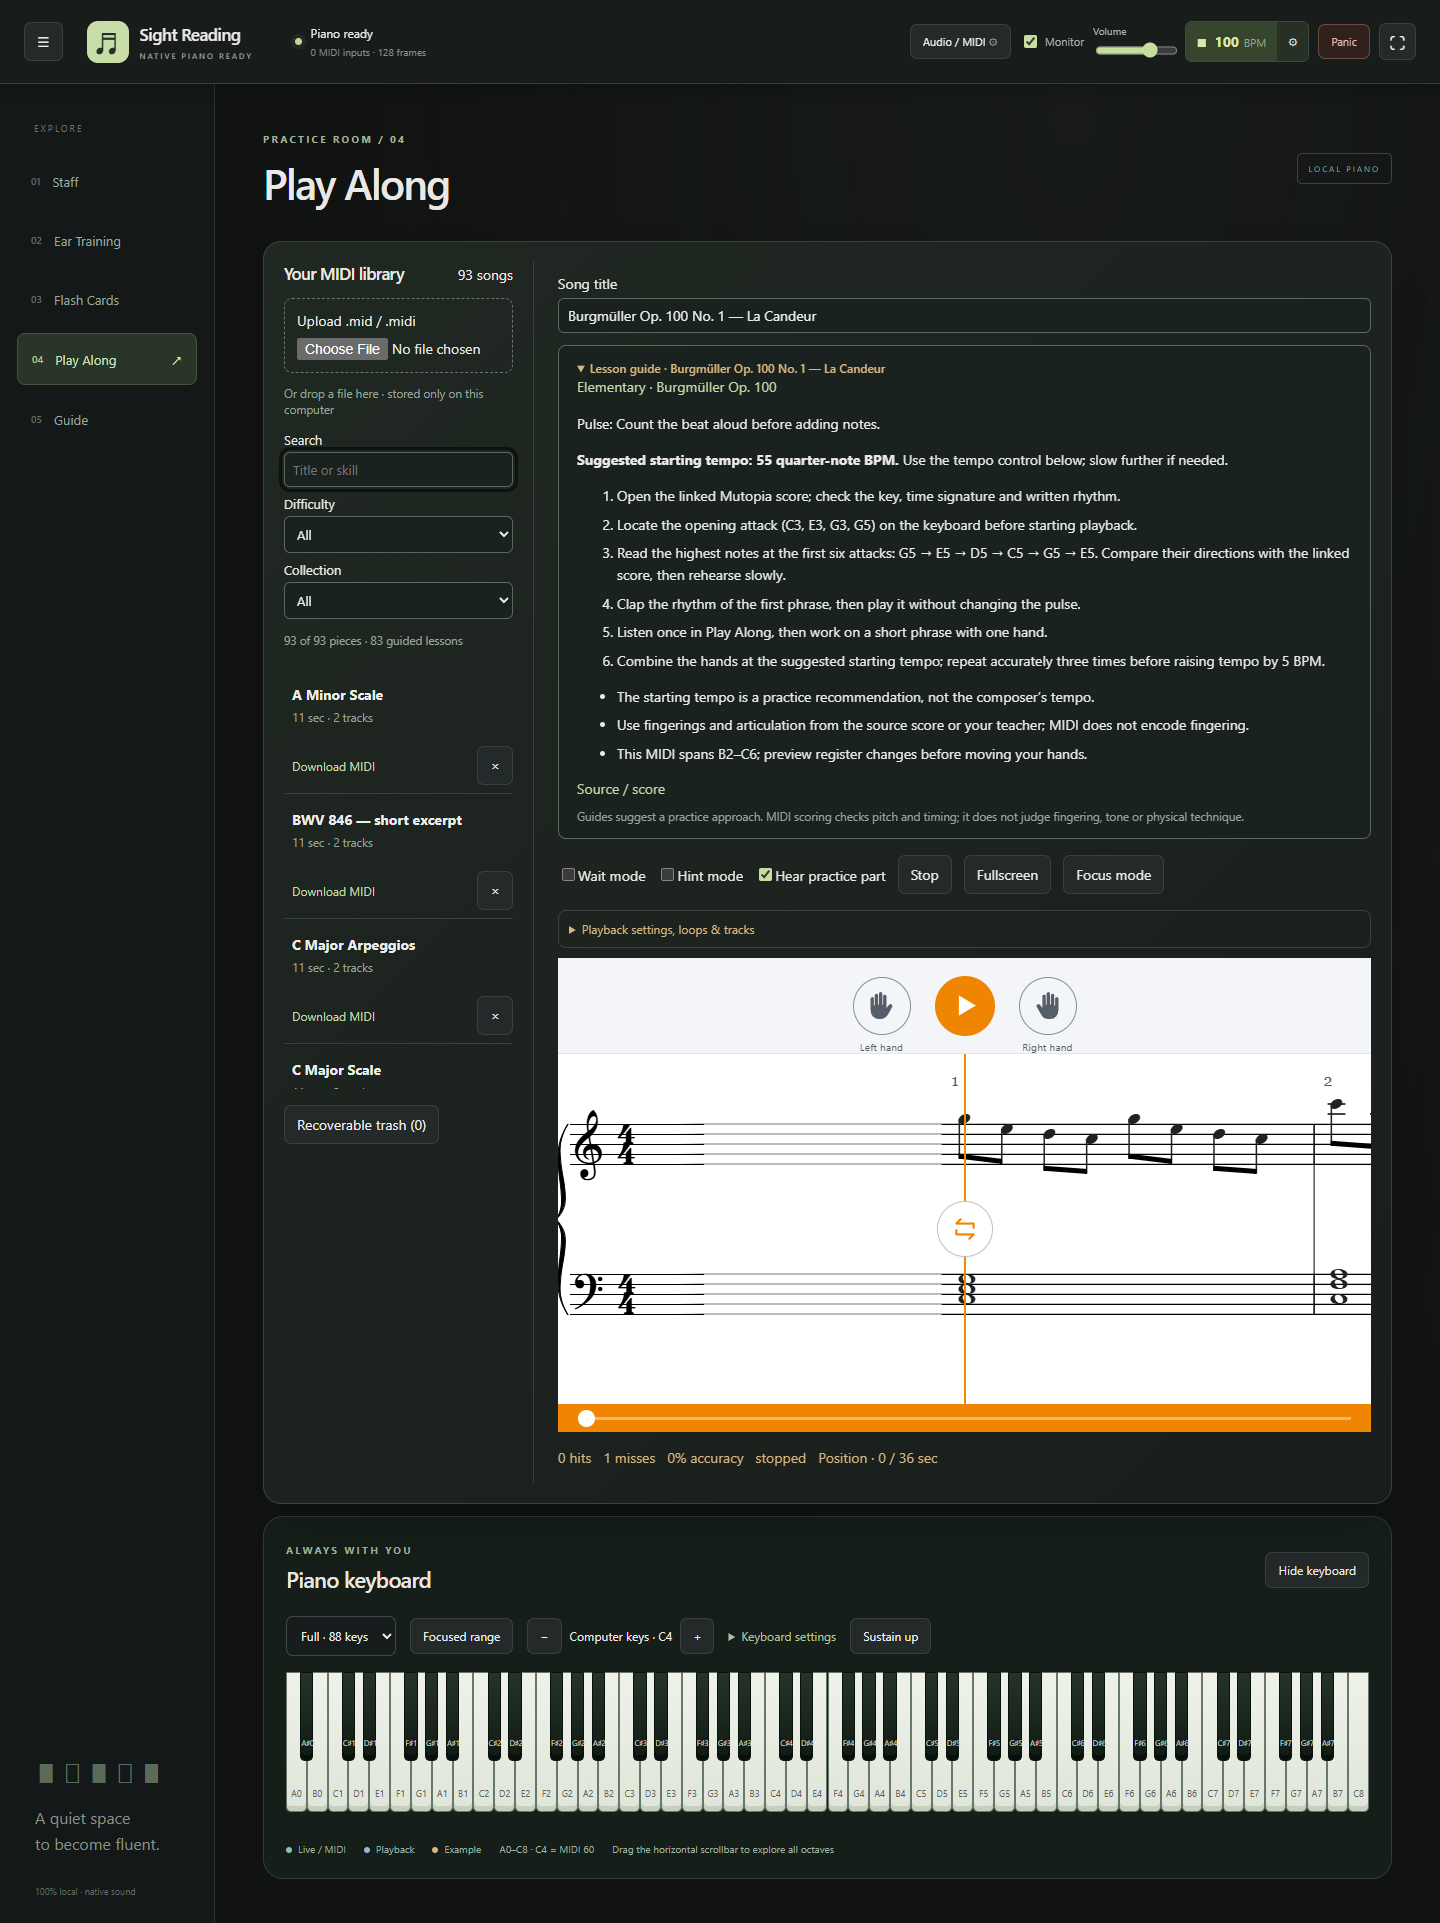
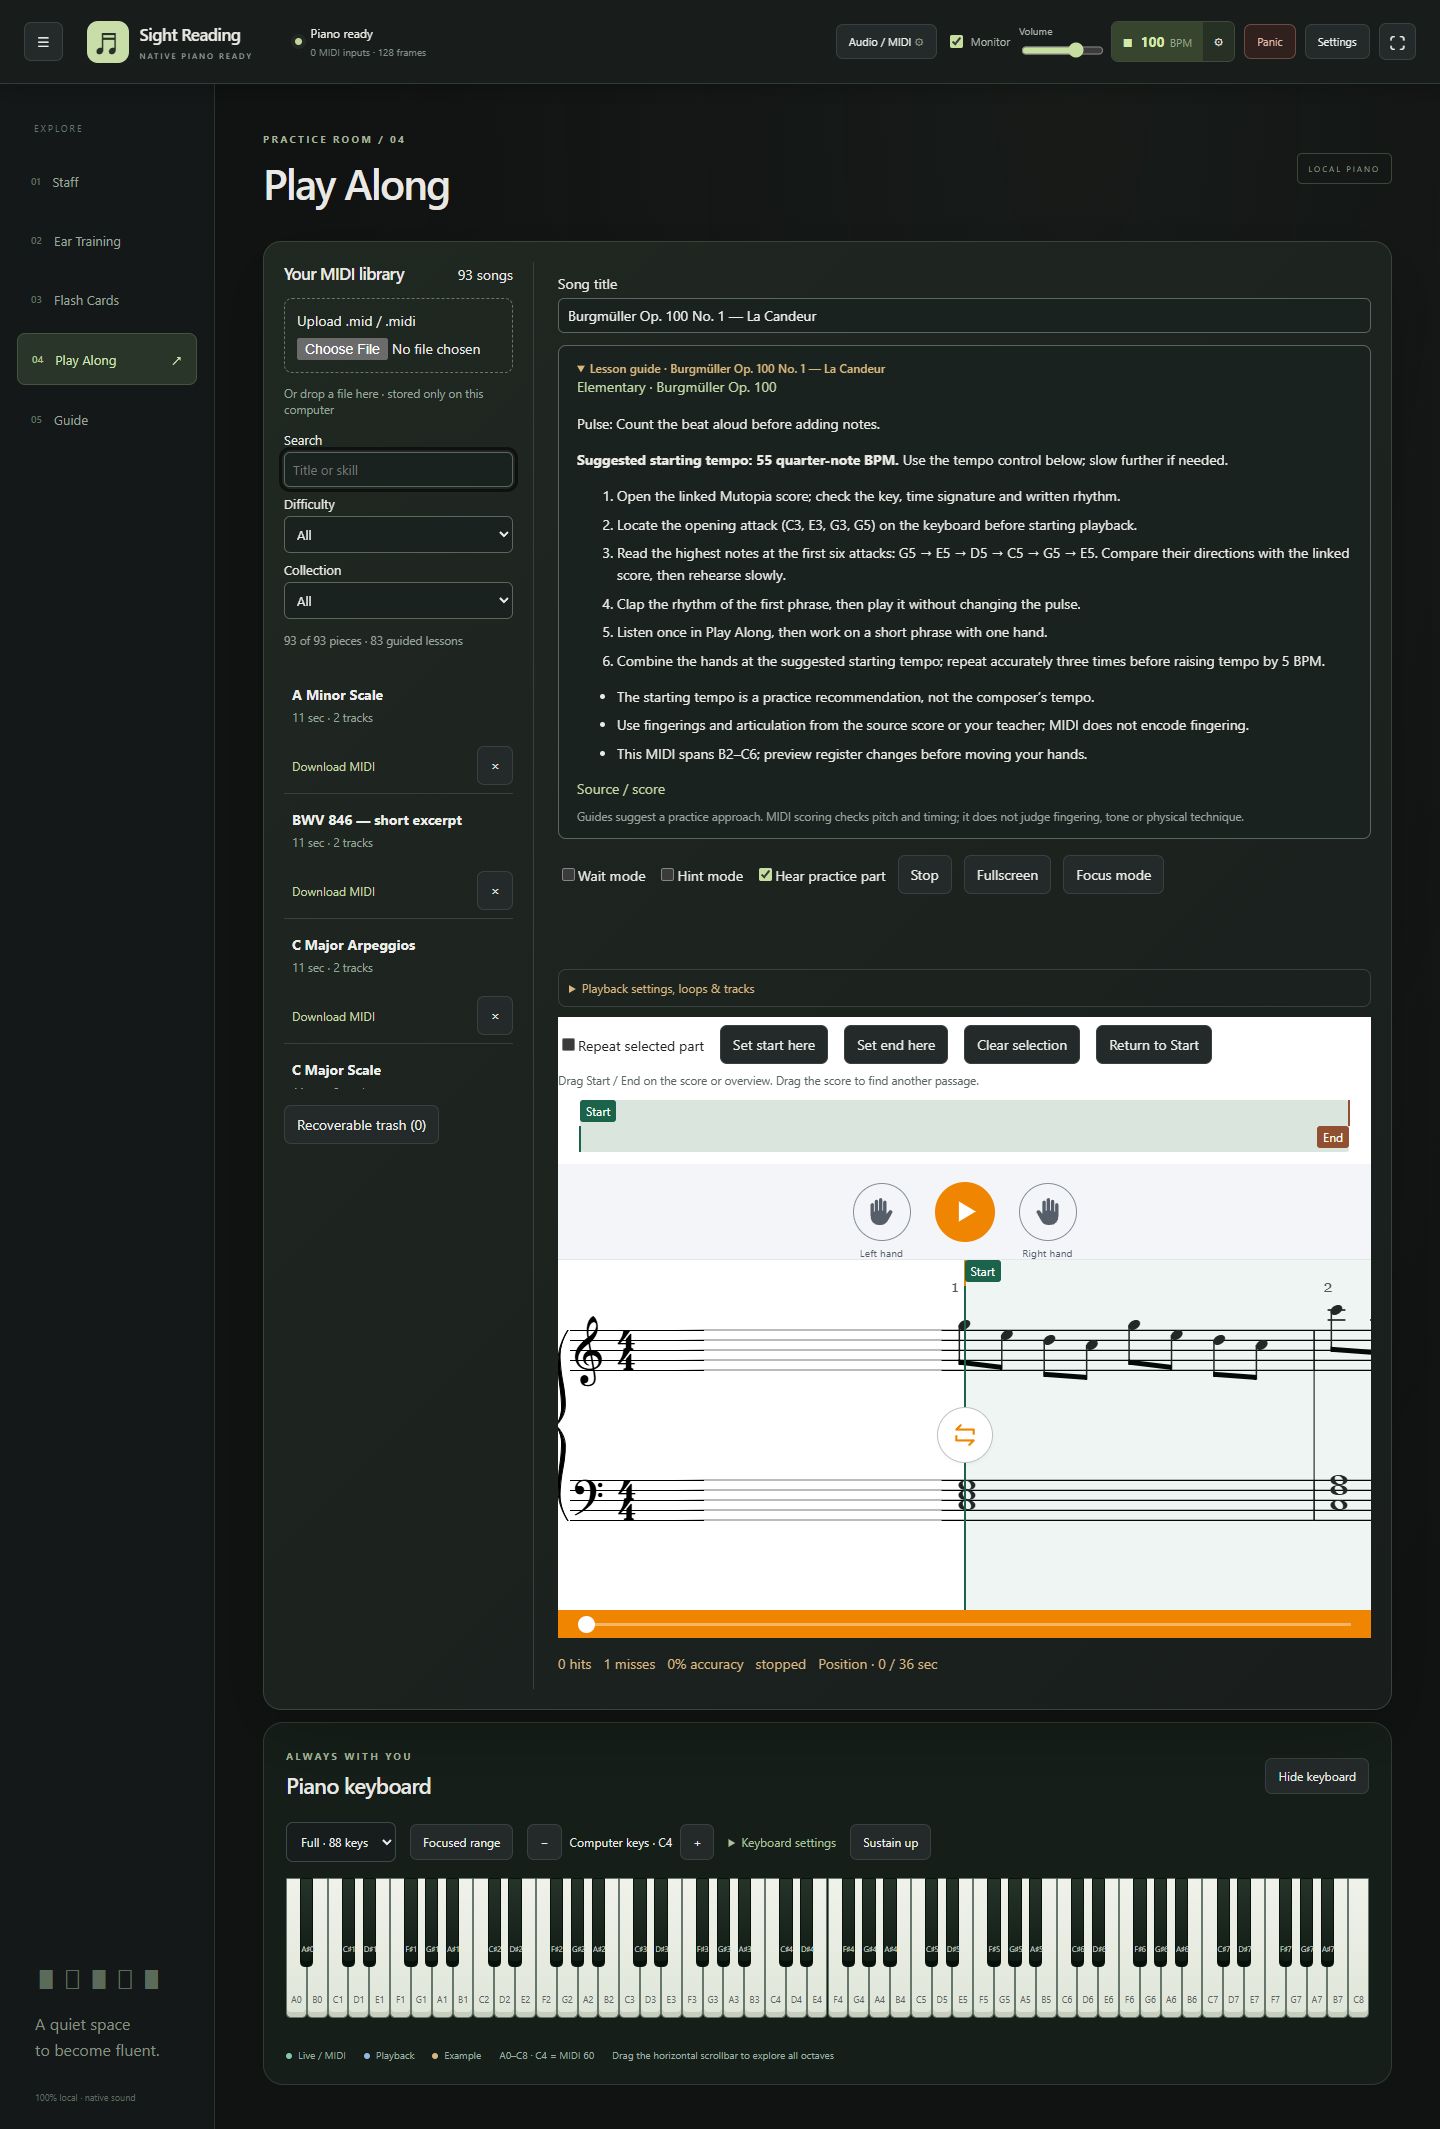
Add toggle to hide passage controls and disable repeat
Hide the passage panel, overview, A/B settings and score overlays together. Disable native repeating before hiding, retain boundaries, and leave repeat off when controls return. Include updated verification notes and screenshots.

diff --git a/web/src/PlayAlong.tsx b/web/src/PlayAlong.tsx
@@ -15,6 +15,8 @@ export function PlayAlong({ onFocus }: { onFocus: () => void }) {
   const dragPause = useRef<Promise<void>>(Promise.resolve());
   const [seekPreview, setSeekPreview] = useState<number | null>(null);
   const overview = useRef<HTMLDivElement>(null);
+  const [hidePassage, setHidePassage] = useState(false);
+  const [hidingPassage, setHidingPassage] = useState(false);
   useEffect(() => {
     if (seekPreview !== null && p && Math.abs(p.songSeconds - seekPreview) < .001)
       setSeekPreview(null);
@@ -74,6 +76,16 @@ export function PlayAlong({ onFocus }: { onFocus: () => void }) {
   }, [song?.id, bucket, p?.revision]);
   const config = (edit: Partial<TransportConfig>) =>
     void run("transport.configure", edit);
+  const togglePassage = async (hide: boolean) => {
+    if (!hide) { setHidePassage(false); return; }
+    setHidingPassage(true);
+    setError("");
+    try {
+      await native.command("transport.configure", { loop: false });
+      setHidePassage(true);
+    } catch (e) { setError((e as Error).message); }
+    finally { setHidingPassage(false); }
+  };
   const patch = async (edit: Record<string, unknown>) => {
     if (!song) return;
     try {
@@ -257,7 +269,7 @@ export function PlayAlong({ onFocus }: { onFocus: () => void }) {
                   />
                 </label>
               </div>
-              <div className="song-options">
+              {!hidePassage && <div className="song-options">
                 <label>
                   <input
                     type="checkbox"
@@ -294,7 +306,7 @@ export function PlayAlong({ onFocus }: { onFocus: () => void }) {
                 <button onClick={() => config({ b: Math.floor(p.songTick) })}>
                   Set B here
                 </button>
-              </div>
+              </div>}
               <div className="song-options">
                 <label>
                   Auto accompaniment
@@ -380,6 +392,13 @@ export function PlayAlong({ onFocus }: { onFocus: () => void }) {
               </div>
             </details>
             <div className="practice-player song-player">
+              <div className="selection-visibility">
+                <label><input type="checkbox" aria-label="Hide passage controls"
+                  checked={hidePassage} disabled={hidingPassage}
+                  onChange={e => void togglePassage(e.target.checked)} />
+                  Hide passage controls</label>
+              </div>
+              {!hidePassage && <>
               <div className="selection-controls">
                 <label><input type="checkbox" aria-label="Repeat selected part"
                   checked={p.config.loop} onChange={e => config({ loop: e.target.checked })} />
@@ -398,6 +417,7 @@ export function PlayAlong({ onFocus }: { onFocus: () => void }) {
                     return (x - box.left) / box.width * song.durationTicks;
                   }} />
               </div>
+              </>}
               <PlayerControls
                 hand={p.config.hand ?? "both"}
                 onHand={(hand) => config({ hand })}
@@ -415,7 +435,7 @@ export function PlayAlong({ onFocus }: { onFocus: () => void }) {
                 <EngravedScore
                   key={song.id}
                   song={song}
-                  selection={selection}
+                  selection={hidePassage ? undefined : selection}
                   fromTick={scoreWindow.from}
                   toTick={scoreWindow.to}
                   notes={displayedNotes}

diff --git a/web/src/playAlong.css b/web/src/playAlong.css
@@ -7,6 +7,7 @@
   gap: 24px;
 }
 .selection-controls { display: flex; flex-wrap: wrap; gap: 8px 16px; align-items: center; padding: 8px 0; }
+.selection-visibility { padding: 8px 12px; border-bottom: 1px solid #e2e6e3; }
 .selection-controls small { flex-basis: 100%; color: #59665e; }
 .selection-overview { position: relative; height: 52px; margin: 4px 22px 12px; background: #e8eee9; border-radius: 4px; }
 .loop-markers { position: absolute; inset: 0; pointer-events: none; overflow: hidden; z-index: 5; }

diff --git a/docs/verification/2026-10-13-session-persistence.md b/docs/verification/2026-10-13-session-persistence.md
@@ -1,0 +1,20 @@
+# Workspace and song restoration — 2026-10-13
+
+The native SQLite store now retains the last tab, sidebar/Focus mode, keyboard display preferences, all existing audio/metronome/exercise settings, and the last selected song's playback options and tick position. Startup restores the song without starting playback. Explicit tab links take precedence over the saved tab.
+
+The global Settings dialog offers Reset all settings to defaults. Reset preserves the library, track assignments, selected song and current song position. Live notes are retained, disruptive audio changes use the existing deferral, and a running metronome stays running.
+
+Playback progress is captured each second and after transport commands, queued to a bounded native background writer with its own SQLite connection, and flushed on graceful shutdown. Checkpoint writes run outside the audio callback and playback pump. Abrupt interruption can lose the latest checkpoint; storage failures are reported in the UI.
+
+## Verification
+
+- Production frontend build and TypeScript check passed; all 36 frontend tests passed.
+- Native build passed; all four CTest targets passed.
+- `node tests/run-e2e.mjs` and `node tests/session-persistence.mjs` passed all 14 integration suites.
+- `tests/session-persistence.mjs` verifies complete setting restoration, last tab on a fresh root URL, UI reload and keyboard preference changes, invalid preference rejection, paused song/tick/config restoration, progress while another tab is open, native playback attacks during a locked SQLite write transaction, reset/live/metronome/library isolation, reset persistence, and deletion of the last song.
+- Keyboard regression checks immediate changes across all supported sizes; preference revisions prevent older snapshots from overwriting newer edits.
+- The selection regression waits until the browser displays the native seek position before comparing rewind animation transforms.
+- Desktop (1440×1000) and mobile (390×844) settings screenshots were visually inspected: `session-settings-desktop.png` and `session-settings-mobile.png`.
+- Independent review identified synchronous checkpoint writes on the playback pump; the bounded writer and separate connection resolved it. Follow-up review found no remaining actionable issues.
+
+Physical MIDI hotplug, external MIDI output and hardware latency were not measured for this change. Live-note isolation was exercised through the real native service with virtual sources; native sampled piano and WASAPI were used by integration tests.

diff --git a/docs/USER-GUIDE.md b/docs/USER-GUIDE.md
@@ -70,6 +70,8 @@ To repeat a passage, drag the green Start and brown End vertical lines on the sc
 
 ## Imports & controller limits
 
+Hide passage controls turns repeat off and hides the passage panel, overview, A/B settings, Start/End lines and shaded selection on the score. The boundaries are retained. Showing the controls again leaves repeat off until you enable it. Hiding the controls does not stop live keys or the metronome.
+
 When Repeat selected part reaches End, the score immediately animates back to Start over about two seconds, then playback resumes. There is no delay before movement begins. Playback and scoring pause during the return; live keys and global clicks continue. Return to Start uses the same animation from the current position, resuming only if playback was already running. Pause or Stop cancels an ongoing return. Restart remains the immediate restart control. The two-second duration is independent of song speed.
 
 SMF types 0/1 with PPQ are supported; type 2/SMPTE are rejected. Limits: 20 MB, one million events, 256 tracks, two hours, cumulative ticks ≤2,147,483,647. Originals retain tempo/meter/key maps, channels, velocities, overlapping notes and raw controllers. Pitched tracks audition as piano; drums are disabled by default. Audible playback mappings: CC64 sustain, CC7 volume, CC11 expression, CC10 pan and CC120/123 release; other controllers and pitch bend are preserved without an audition mapping. Seek/loop restores spanning notes and controller state only on playback. Dense windows cap at 4096 notes and report truncation; accompaniment/restoration capacity errors are explicit and retain live sound/clicks.
